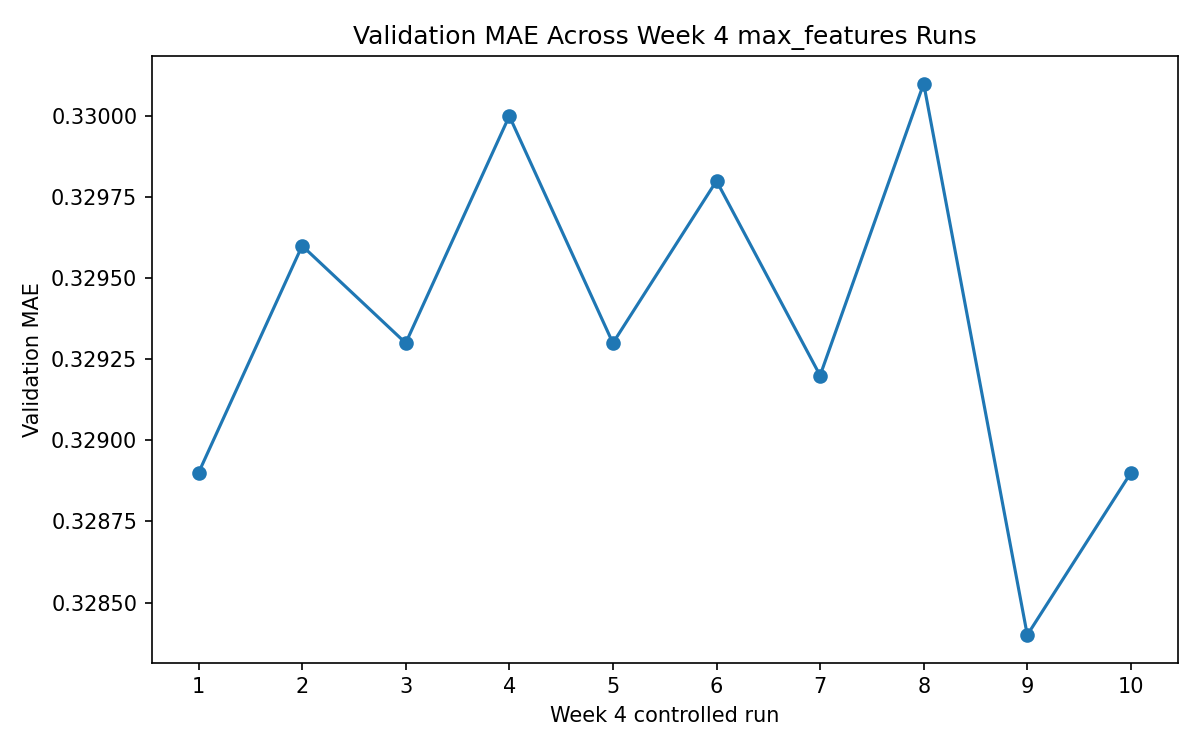
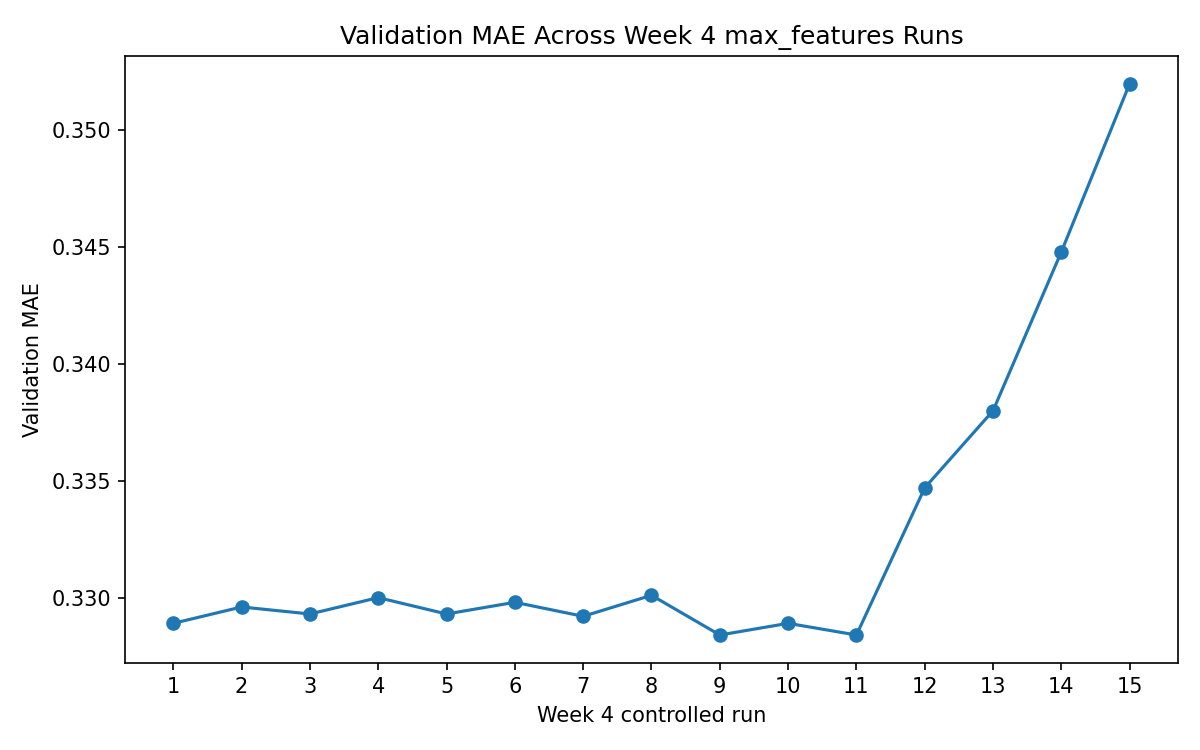
increasing min_samples_leaf

diff --git a/model.py b/model.py
@@ -6,8 +6,8 @@ def build_model(preprocessor):
     model = Pipeline(steps=[
         ("preprocessor", preprocessor),
         ("model", RandomForestRegressor(
-            n_estimators=1000,
-            min_samples_leaf=1,
+            n_estimators=400,
+            min_samples_leaf=50,
             max_features=0.7,
             random_state=390,
             n_jobs=-1))

diff --git a/week_4.md b/week_4.md
@@ -6,13 +6,13 @@ Test whether changing the `max_features` hyperparameter in `RandomForestRegresso
 
 ## Experiment Axis
 
-The main experiment axis is `max_features`. The final controlled follow-up runs also vary `n_estimators`.
+The main experiment axis is `max_features`. The controlled follow-up runs also vary `n_estimators` and `min_samples_leaf`.
 
 ## Held Fixed
 
 - Model family: RandomForestRegressor
 - n_estimators: 300 for the main max_features sweep; 400 and 1000 for the follow-up runs
-- min_samples_leaf: 1
+- min_samples_leaf: 1 for the max_features and tree-count sweeps; varied in the leaf-size sweep
 - random_state: 390
 - n_jobs: -1
 - Preprocessing: unchanged
@@ -29,19 +29,24 @@ The main experiment axis is `max_features`. The final controlled follow-up runs 
 
 # Week 4 Experiment-Result Matrix
 
-| Run | Condition | n_estimators | max_features | Val MAE | Runtime sec | Status | Decision | Interpretation |
-|---|---|---:|---:|---:|---:|---|---|---|
-| A | Lower feature subsampling | 300 | 0.5 | 0.3294 | 72.1585 | success | discard | max_features=0.5 worsened MAE, suggesting too much feature subsampling may reduce split quality. |
-| B | Current/baseline setting | 300 | 0.7 | 0.3289 | 116.7758 | success | discard | max_features=0.7 was the strongest controlled 300-tree setting, suggesting moderate feature subsampling works best in this set. |
-| C | Full feature availability | 300 | 1.0 | 0.3296 | 120.5494 | success | discard | max_features=1.0 was similar to 0.7 but worse, suggesting the model is not very sensitive to this parameter in the tested range. |
-| D | Higher feature subsampling | 300 | 0.85 | 0.3293 | 144.2035 | success | discard | max_features=0.85 landed between 0.7 and 1.0, suggesting extra feature availability did not improve the 300-tree forest. |
-| E | Intermediate feature subsampling | 300 | 0.72 | 0.33 | 114.0266 | success | discard | max_features=0.72 was worse than 0.7, suggesting small moves above the baseline do not reliably improve MAE. |
-| F | Intermediate feature subsampling | 300 | 0.75 | 0.3293 | 94.0711 | success | discard | max_features=0.75 matched the 0.85 result, suggesting midrange values are stable but not competitive with the best overall model. |
-| G | Intermediate feature subsampling | 300 | 0.78 | 0.3298 | 109.8493 | success | discard | max_features=0.78 was one of the weaker controlled runs, suggesting this setting may add noise without improving splits. |
-| H | Intermediate feature subsampling | 300 | 0.82 | 0.3292 | 85.5758 | success | discard | max_features=0.82 was the best of the added midrange probes, but still did not beat the 0.7 controlled baseline. |
-| I | Follow-up tree count probe | 400 | 0.72 | 0.3301 | 6814.4588 | success | discard | Increasing to 400 trees at max_features=0.72 worsened MAE, suggesting more trees did not rescue this feature-sampling setting. |
-| J | Follow-up best-setting repeat | 400 | 0.7 | 0.3284 | 91.4724 | success | discard | Returning to max_features=0.7 with 400 trees matched the best MAE but did not improve it, suggesting the earlier best is stable but hard to beat. |
-| K | Large tree count probe | 1000 | 0.7 | 0.3289 | 259.9565 | success | discard | Increasing to 1000 trees at max_features=0.7 worsened MAE versus the 400-tree run, suggesting additional trees add cost without improving validation error. |
+| Run | Condition | n_estimators | max_features | min_samples_leaf | Val MAE | Runtime sec | Status | Decision | Interpretation |
+|---|---|---:|---:|---:|---:|---:|---|---|---|
+| A | Lower feature subsampling | 300 | 0.5 | 1 | 0.3294 | 72.1585 | success | discard | max_features=0.5 worsened MAE, suggesting too much feature subsampling may reduce split quality. |
+| B | Current/baseline setting | 300 | 0.7 | 1 | 0.3289 | 116.7758 | success | discard | max_features=0.7 was the strongest controlled 300-tree setting, suggesting moderate feature subsampling works best in this set. |
+| C | Full feature availability | 300 | 1.0 | 1 | 0.3296 | 120.5494 | success | discard | max_features=1.0 was similar to 0.7 but worse, suggesting the model is not very sensitive to this parameter in the tested range. |
+| D | Higher feature subsampling | 300 | 0.85 | 1 | 0.3293 | 144.2035 | success | discard | max_features=0.85 landed between 0.7 and 1.0, suggesting extra feature availability did not improve the 300-tree forest. |
+| E | Intermediate feature subsampling | 300 | 0.72 | 1 | 0.33 | 114.0266 | success | discard | max_features=0.72 was worse than 0.7, suggesting small moves above the baseline do not reliably improve MAE. |
+| F | Intermediate feature subsampling | 300 | 0.75 | 1 | 0.3293 | 94.0711 | success | discard | max_features=0.75 matched the 0.85 result, suggesting midrange values are stable but not competitive with the best overall model. |
+| G | Intermediate feature subsampling | 300 | 0.78 | 1 | 0.3298 | 109.8493 | success | discard | max_features=0.78 was one of the weaker controlled runs, suggesting this setting may add noise without improving splits. |
+| H | Intermediate feature subsampling | 300 | 0.82 | 1 | 0.3292 | 85.5758 | success | discard | max_features=0.82 was the best of the added midrange probes, but still did not beat the 0.7 controlled baseline. |
+| I | Follow-up tree count probe | 400 | 0.72 | 1 | 0.3301 | 6814.4588 | success | discard | Increasing to 400 trees at max_features=0.72 worsened MAE, suggesting more trees did not rescue this feature-sampling setting. |
+| J | Follow-up best-setting repeat | 400 | 0.7 | 1 | 0.3284 | 91.4724 | success | discard | Returning to max_features=0.7 with 400 trees matched the best MAE but did not improve it, suggesting the earlier best is stable but hard to beat. |
+| K | Large tree count probe | 1000 | 0.7 | 1 | 0.3289 | 259.9565 | success | discard | Increasing to 1000 trees at max_features=0.7 worsened MAE versus the 400-tree run, suggesting additional trees add cost without improving validation error. |
+| L | Leaf-size baseline repeat | 400 | 0.7 | 1 | 0.3284 | 77.0444 | success | discard | min_samples_leaf=1 again matched the best MAE, confirming the current low-leaf setting is the strongest tested option. |
+| M | Mild leaf regularization | 400 | 0.7 | 5 | 0.3347 | 39.0335 | success | discard | min_samples_leaf=5 worsened MAE, suggesting even mild leaf regularization underfits this dataset. |
+| N | Moderate leaf regularization | 400 | 0.7 | 10 | 0.338 | 32.1123 | success | discard | min_samples_leaf=10 further worsened MAE, reinforcing that larger leaves reduce useful tree detail. |
+| O | Strong leaf regularization | 400 | 0.7 | 25 | 0.3448 | 19.5721 | success | discard | min_samples_leaf=25 traded speed for substantially worse MAE, suggesting the forest needs smaller terminal nodes. |
+| P | Very strong leaf regularization | 400 | 0.7 | 50 | 0.352 | 15.5692 | success | discard | min_samples_leaf=50 was the weakest leaf sweep result, indicating heavy smoothing discards too much signal. |
 
 # Week 4 Metric-Over-Time Plot
 ![Week 4 metric-over-time plot](week4_metric_over_time.png)
